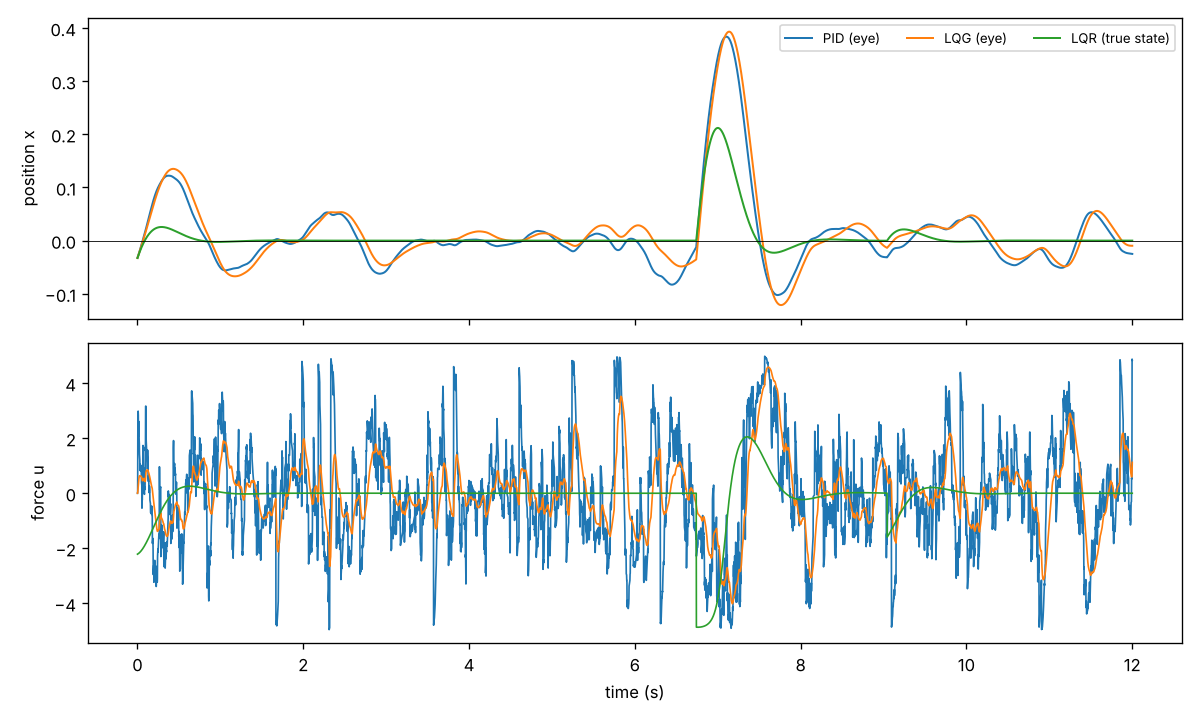
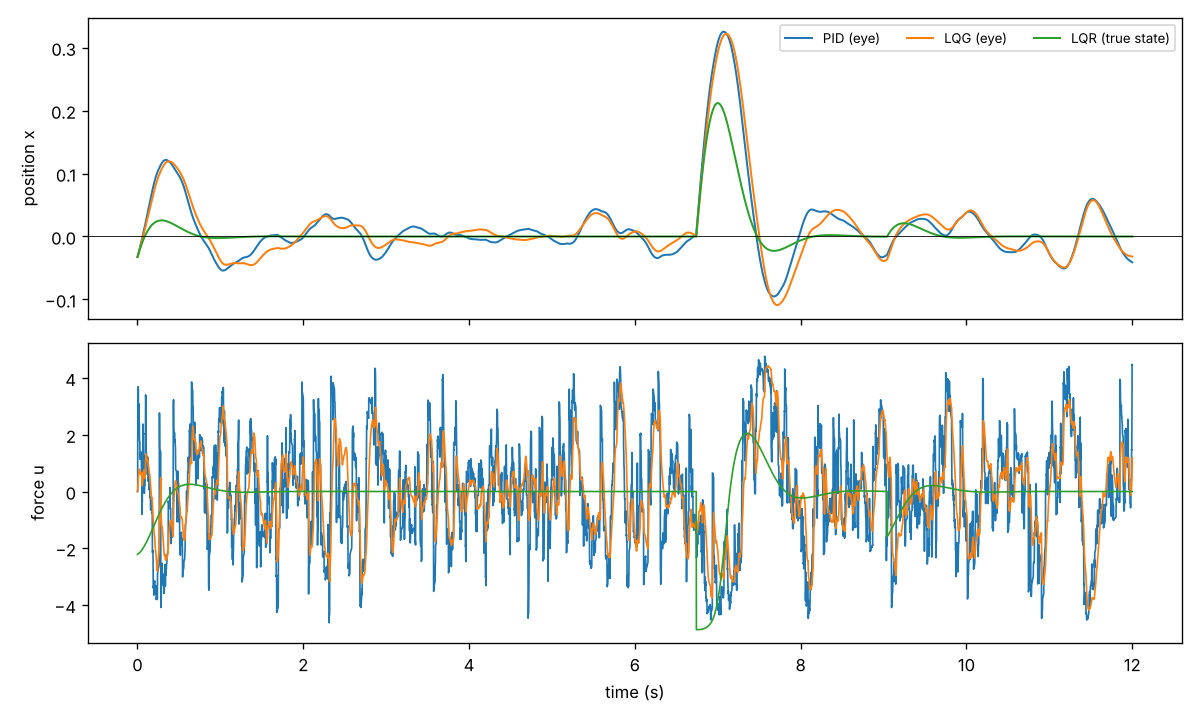
Add step 1 and step 2 results and README
Eye-only baselines: PID 2.73x and LQG 2.62x the full-state LQR cost.
Rate RNN trained by continuous truncated BPTT reaches 3.12x, within 20%
of the eye-only LQG, validating the training loop before the SNN step.

Claude-Session: https://claude.ai/code/session_01WYN51Kc1A4aJvdcscpWzku

diff --git a/README.md b/README.md
@@ -1,0 +1,100 @@
+# SNN feedback controller
+
+What control strategy does a recurrent (eventually spiking) network discover
+when its only objective is to keep a physical system at a target, and its only
+input is a population of position-tuned "eye" neurons?
+
+## Task
+
+- **Plant:** harmonic oscillator `m x'' = u + F - k x - c x' + kicks`. The defaults are m = 1,
+  k = π² (2 s period), no damping, F = 0, actuator limit `u = 5 tanh(cmd / 5)`, and random
+  velocity kicks (0.5/s, std 1 m/s).
+  Without control it oscillates forever, so the controller's job is to add damping.
+- **Eye:** 16 Poisson neurons with Gaussian tuning curves tiling x ∈ [−1.2, 1.2], each
+  firing at up to 100 Hz. This is the only input to the learned controllers.
+- **Loss:** `<x² + λu²>` with λ = 1e-3.
+- **Time step:** dt = 2 ms.
+
+## Layout
+
+```
+snnfc/plant.py      batched differentiable oscillator, kicks, blow-up resets
+snnfc/eye.py        Gaussian population eye (straight-through spikes) + population-vector decoder
+snnfc/baselines.py  LQR, PID (true state); PID and LQG on the decoded eye; Nelder-Mead tuner
+snnfc/models.py     leaky rate RNN with push/pull output populations + filtered readout
+snnfc/train.py      continuous truncated BPTT: state never reset, gradient cut every window
+snnfc/sim.py        closed-loop evaluation with common random numbers
+run_step0.py        step 0: privileged baselines
+run_step1.py        step 1: eye check + fair (eye-only) baselines
+run_step2.py        step 2: train the rate RNN and compare  (--eval-only reuses the checkpoint)
+```
+
+To reproduce, run `pip install -r requirements.txt`, then `python run_step0.py && python run_step1.py && python run_step2.py`.
+That takes about 35 minutes on 4 CPU cores. Outputs go to `results/`.
+
+## Results so far
+
+All controllers are evaluated on 64 plants for 60 s with the same held-out disturbance
+sequence. Baselines were tuned on a separate seed.
+
+| controller | sees | cost | × LQR | ⟨x²⟩ | ⟨u²⟩ |
+|---|---|---:|---:|---:|---:|
+| none | – | 0.959 | 184 | 0.959 | 0 |
+| LQR | true x, v | 0.00520 | 1.00 | 0.00366 | 1.54 |
+| PID (tuned) | true x, v | 0.00511 | 0.98 | 0.00345 | 1.66 |
+| PID (tuned) | eye only | 0.01422 | 2.73 | 0.00969 | 4.52 |
+| LQG (Kalman + LQR, tuned) | eye only | 0.01362 | 2.62 | 0.01041 | 3.21 |
+| **rate RNN, learned** | eye only | **0.01625** | 3.12 | 0.01386 | 2.39 |
+
+![traces](results/step2_traces.png)
+![learning curve](results/step2_learning_curve.png)
+
+### What this establishes
+
+1. **Step 0: the scale of the task.** LQR with full state is the floor. PID with the true
+   velocity matches it, slightly beating it because LQR ignores actuator saturation.
+2. **Step 1: the eye is the bottleneck.**
+   - A population-vector decoder with a 10–40 ms filter recovers x with an RMS error of
+     0.07–0.11 (R² about 0.95), at the cost of 8–38 ms of lag.
+   - Even the best classical controllers that see only the eye cost about 2.6× the LQR
+     floor. So 2.6× is the realistic target for a learned controller, not 1×.
+3. **Step 2: the training setup works.**
+   - A 128-unit rate RNN with push/pull output populations, trained by truncated BPTT on
+     the closed loop (2 s windows, never reset), reached a cost within 20% of the tuned
+     eye-only LQG in about 9 minutes of CPU training.
+   - No plant ever had to be reset.
+   - It was told nothing about position error, velocity or integrals.
+
+### Early observations, to be examined properly in step 4
+
+- **Smoother control.** The RNN's force is much smoother than the eye-based PID and LQG
+  (⟨u²⟩ 2.4 vs 3.2–4.5). It filters sensor noise more heavily and accepts more position
+  error in exchange.
+- **Small steady offset.** It sits slightly below the target (about −0.03). There is no
+  bias force to learn from, so nothing forces it to remove its own bias.
+- **More overshoot after large kicks** than LQG.
+- **Not a static PD law.** A linear fit `u ≈ −(6.0 x + 1.2 v)` to the true state explains
+  only R² = 0.33 of the force. Delays and noise filtering matter, which is exactly what the
+  step 4 analyses are designed to tease apart: lagged regression, a stiffness (k) sweep,
+  and velocity probes.
+
+### Notes and fixes made along the way
+
+- **Decoder.** The first decoder, a linear readout fitted on overly wide data, reached only
+  R² ≈ 0.55. It was replaced by a normalised population vector, which reaches R² ≈ 0.95.
+- **Tuner.** scipy's Nelder-Mead default initial simplex froze any parameter starting at 1
+  (log 0). The tuner now builds its own initial simplex.
+- **Gradient through the eye.** The eye uses a straight-through estimator: real Bernoulli
+  spikes going forward, d(rate)/dx going backward. This lets gradients go around the whole
+  loop, plant → eye → network → plant.
+
+## Next
+
+- **Step 3:** swap the rate RNN for LIF neurons with surrogate gradients, keeping the same
+  loop, readout and baselines.
+- **Step 4:**
+  - Regress u on lagged x, v and ∫x.
+  - Sweep k from 0.5× to 2× to separate true derivative action from delayed proportional
+    feedback.
+  - Fit linear probes for ẋ and ∫x on the recurrent activity.
+  - Add a constant force F to make integral action necessary.
